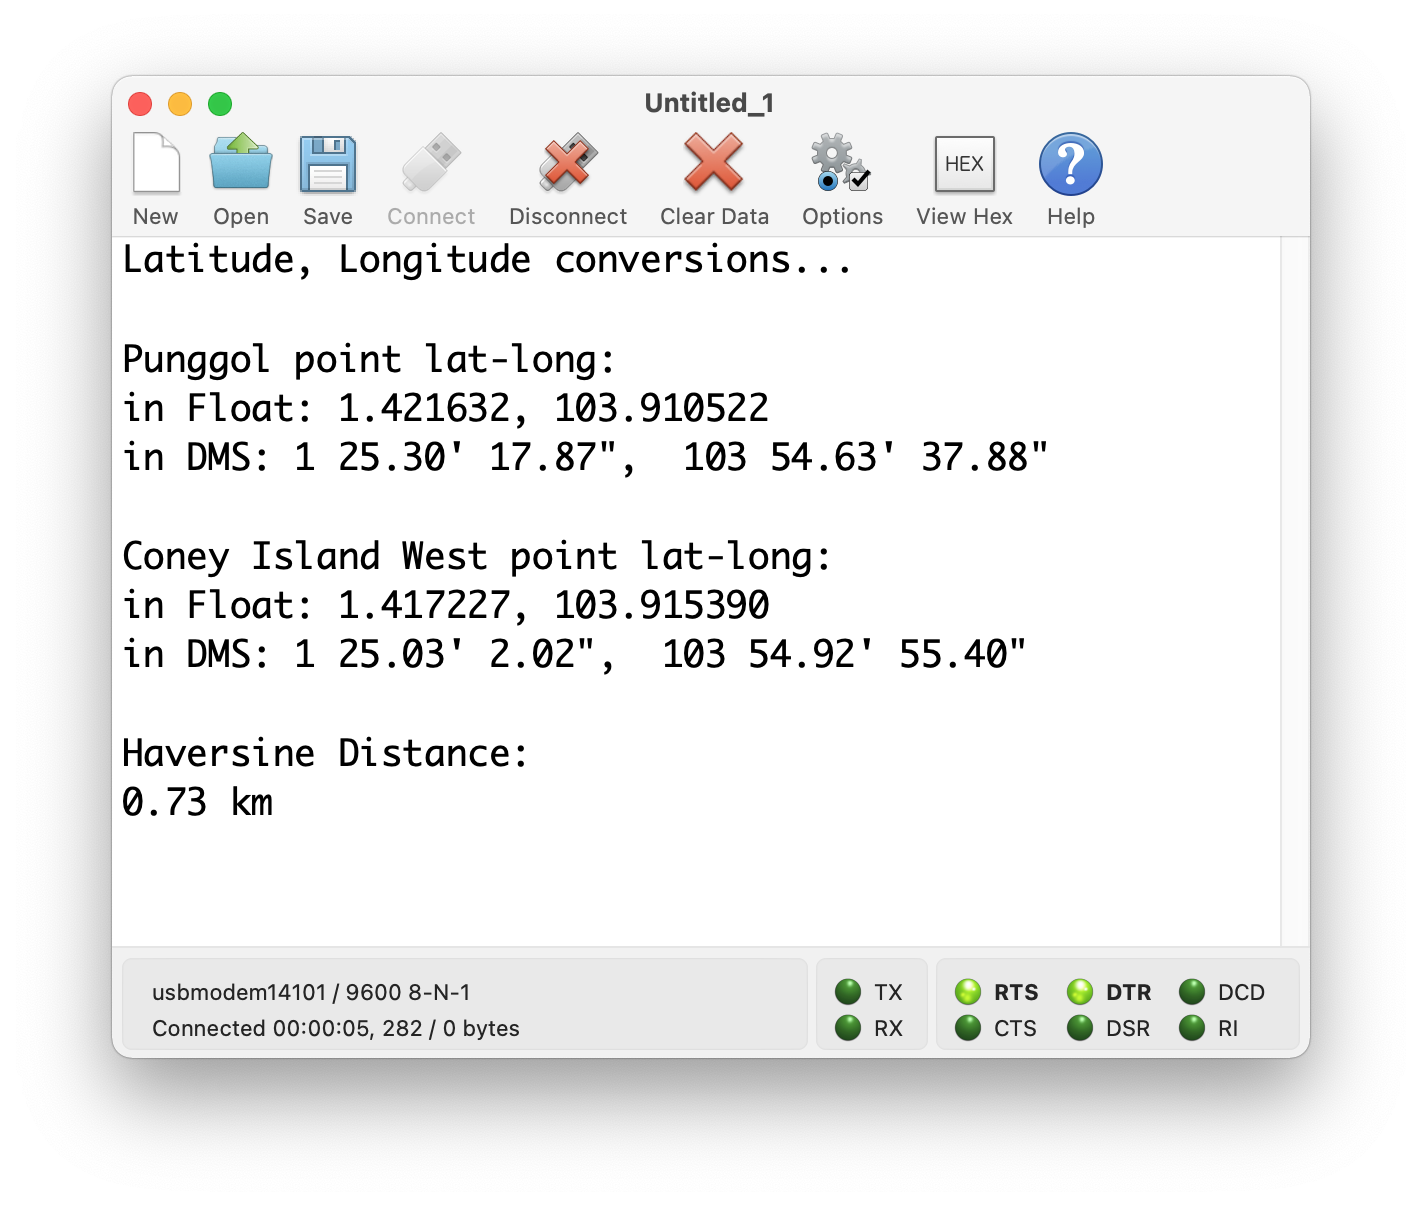
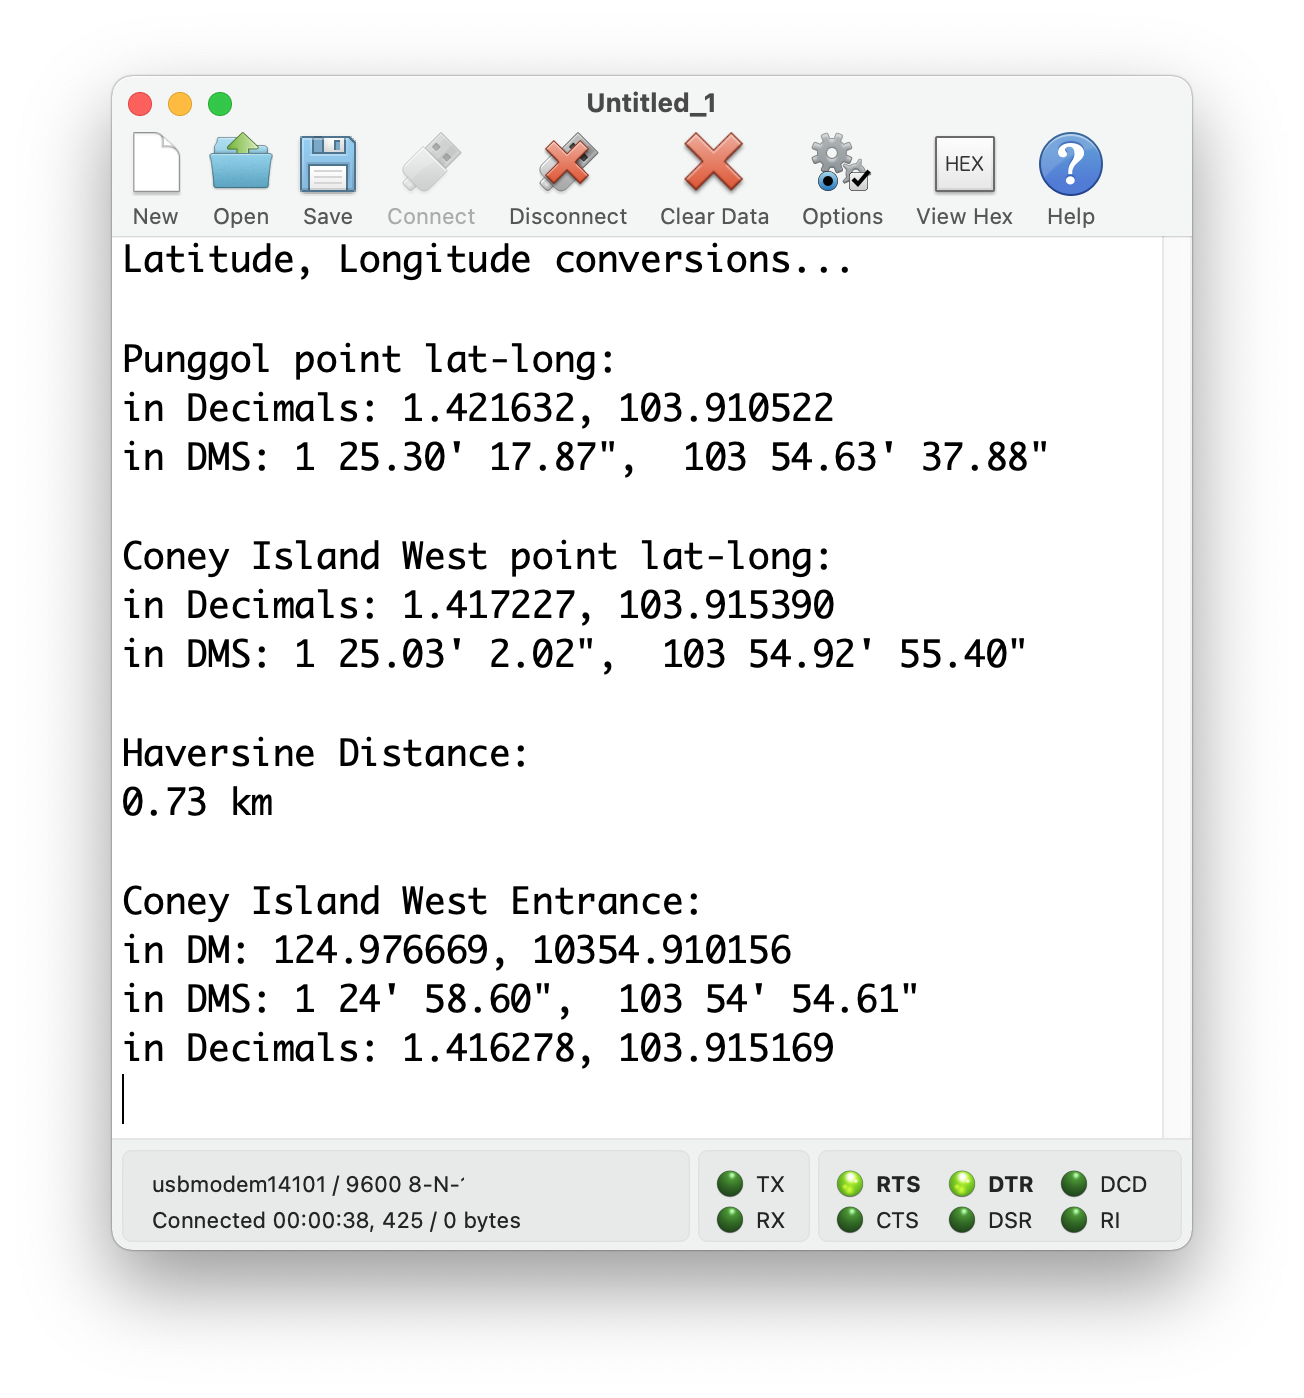
refactor: add example for converting DMS to Decimal degrees

Changed region(s): [[0.0613, 0.0614, 0.9202, 0.9204], [0.7055, 0.3068, 0.7975, 0.3375]]

diff --git a/_examples/latlong-conversions.md b/_examples/latlong-conversions.md
@@ -23,3 +23,9 @@ steps:
   - step: (Option B) Ensure the board can be detected with Arduino IDE. Compile and upload the code to the board.
     image: arduino-ide-board.png
 ---
+
+### Lat-Long formats
+
+- Degrees-Minutes-Seconds (DMS): `1°24'58.6"N 103°54'54.6"E`
+- Decimal-Minutes: `124.97666667, 10354.91`
+- Decimal Degrees: `1.41627010, 103.91517884`
